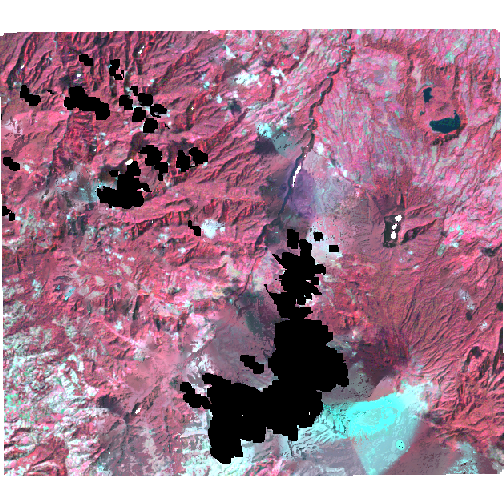
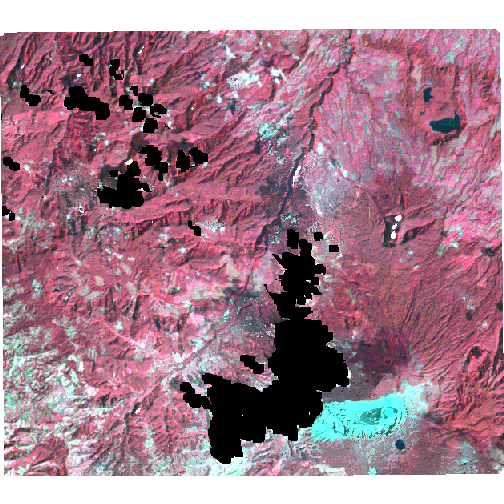
Fix cloud_remove_R image.

diff --git a/_posts/2014-04-16-cloud-removal-with-teamlucc.md b/_posts/2014-04-16-cloud-removal-with-teamlucc.md
@@ -73,7 +73,10 @@ image is from January 21, 1986.  The images are surface reflectance images from
 the [Landsat Surface Reflectance Climate Data Record 
 (CDR)](http://landsat.usgs.gov/CDR_LSR.php), that also include cloud masks 
 constructed with the [Function of Mask (fmask) 
-algorithm](https://code.google.com/p/fmask)[^2].
+algorithm](https://code.google.com/p/fmask)[^2]. Both of these images have 
+significant cloud cover, and some areas are cloudy in both images. This 
+example will show the ability of the cloud fill algorithms to function even in 
+difficult circumstances.
 
 To follow along with this analysis, [download these 
 files](/content/2014-04-16-cloud-removal-with-teamlucc/2014-04-16-cloud-removal-with-teamlucc.zip).  
@@ -174,13 +177,6 @@ fill_tc <- topographic_corr(fill, slp_asp, sunelev=90-46.80, sunazimuth=129.88,
 
 {% highlight r %}
 plotRGB(base_tc, stretch='lin')
-{% endhighlight %}
-
-
-
-{% highlight text %}
-## Warning: closing unused connection 5
-## (C:\Users\azvoleff\AppData\Local\Temp\RtmpKaAxSl\file46b444682ea7.gri)
 {% endhighlight %}
 
 ![Base image after topographic correction](/content/2014-04-16-cloud-removal-with-teamlucc/base_tc.png) 
@@ -441,47 +437,42 @@ NSPI cloud fill algorithm that will run directly in R. To run this version of
 the algorithm, call the `cloud_remove` function with the same parameters as 
 above, but specify `use_IDL=FALSE`. This function also has a `verbose=TRUE` 
 option to tell `cloud_remove` to print progress statements as it is running 
-(this option is not available with the IDL scripts shown above):
-This version is nearly identical to the IDL algorithm called with the 
-`use_IDL=TRUE`, `fast=FALSE`, options set, but it takes much less time to run 
-(only 3-4 minutes on my machine). This version of the cloud removal code is 
-also able to properly handle imagery where there are missing pixels due to 
-cloud cover in both the fill and clouded images. To use this routine, call 
-`cloud_remove` with `use_IDL=FALSE`. Note that when `cloud_remove` is run with 
-`use_IDL=FALSE` and `verbose=TRUE`, as in the below example, there will be a 
-large number of status messages printed to the screeen. For the purposes of 
-this demo, I have removed these output messages from this webpage - but don't 
-be surprised if you see these messages when you try this command yourself.
+(this option is not available with the IDL scripts shown above). This version 
+is nearly identical to the IDL algorithm called with the `use_IDL=TRUE` and
+`fast=FALSE` options set, but it takes much less time to run (only 3-4 minutes 
+on my machine).  To use this routine, call `cloud_remove` with `use_IDL=FALSE`.
+
+Note that when `cloud_remove` is run with `use_IDL=FALSE` and `verbose=TRUE`, 
+there will be a large number of status messages printed to the screen. For the 
+purposes of this demo (so that the webpage is not unnecessarily long), I have 
+not used the `verbose=TRUE` argument, but I recommend using it if you try this 
+command yourself.
 
 
 {% highlight r %}
 # Takes 3-4 minutes on a 2.9Ghz Core-i7 3520M laptop
 start_time <- Sys.time()
 base_filled_R <- cloud_remove(base_tc, fill_tc, base_cloud_mask, DN_min=0, 
-                              DN_max=255, use_IDL=FALSE, verbose=TRUE)
+                              DN_max=255, use_IDL=FALSE)
 {% endhighlight %}
 
 
 
 {% highlight text %}
-## Loading required package: parallel
-## Loading required package: iterators
-## Loading required package: foreach
-## foreach: simple, scalable parallel programming from Revolution Analytics
-## Use Revolution R for scalability, fault tolerance and more.
-## http://www.revolutionanalytics.com
-## 
-## Attaching package: 'mmap'
-## 
-## The following object is masked from 'package:Rcpp':
-## 
-##     sizeof
+## Warning: *** use_IDL=FALSE is still experimental - use results with caution ***
+## Warning: min value not known, use setMinMax
 {% endhighlight %}
 
 
 
 {% highlight r %}
 Sys.time() - start_time
+{% endhighlight %}
+
+
+
+{% highlight text %}
+## Time difference of 3.603 mins
 {% endhighlight %}
 
 View the results with `plotRGB`:
@@ -513,7 +504,8 @@ images), `wrspath` and `wrsrow` (the WRS-2 path/row to use), and `start_date`
 and `end_date` (a start and end date limiting the images to use in the 
 algorithm). The analyst can also optionally specify a `base_date`, and the 
 `auto_cloud_fill` function will automatically pick the image closest to that 
-date to use as the base image.
+date to use as the base image (otherwise `auto_cloud_fill` will automatically 
+pick the image with the least cloud cover as the base image).
 
 As the `auto_cloud_fill` function automatically chooses images for inclusion in 
 the cloud fill process, it relies on having images stored on disk in a 
